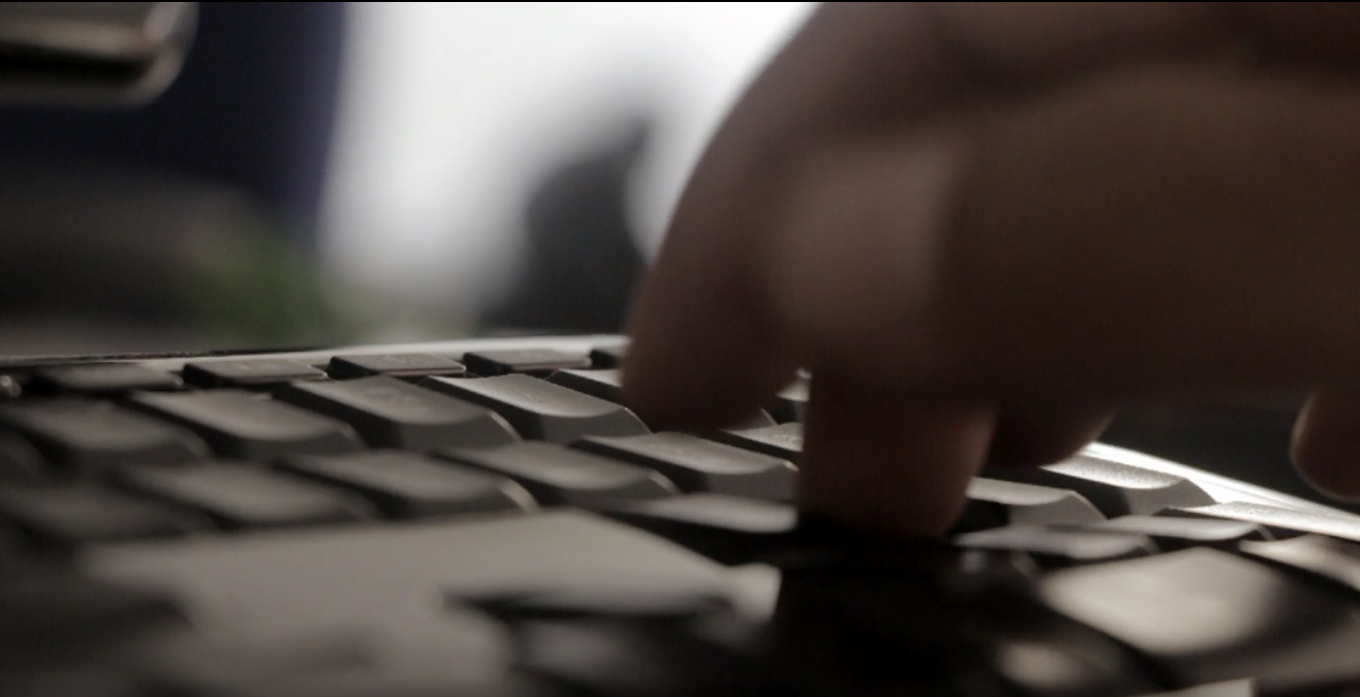
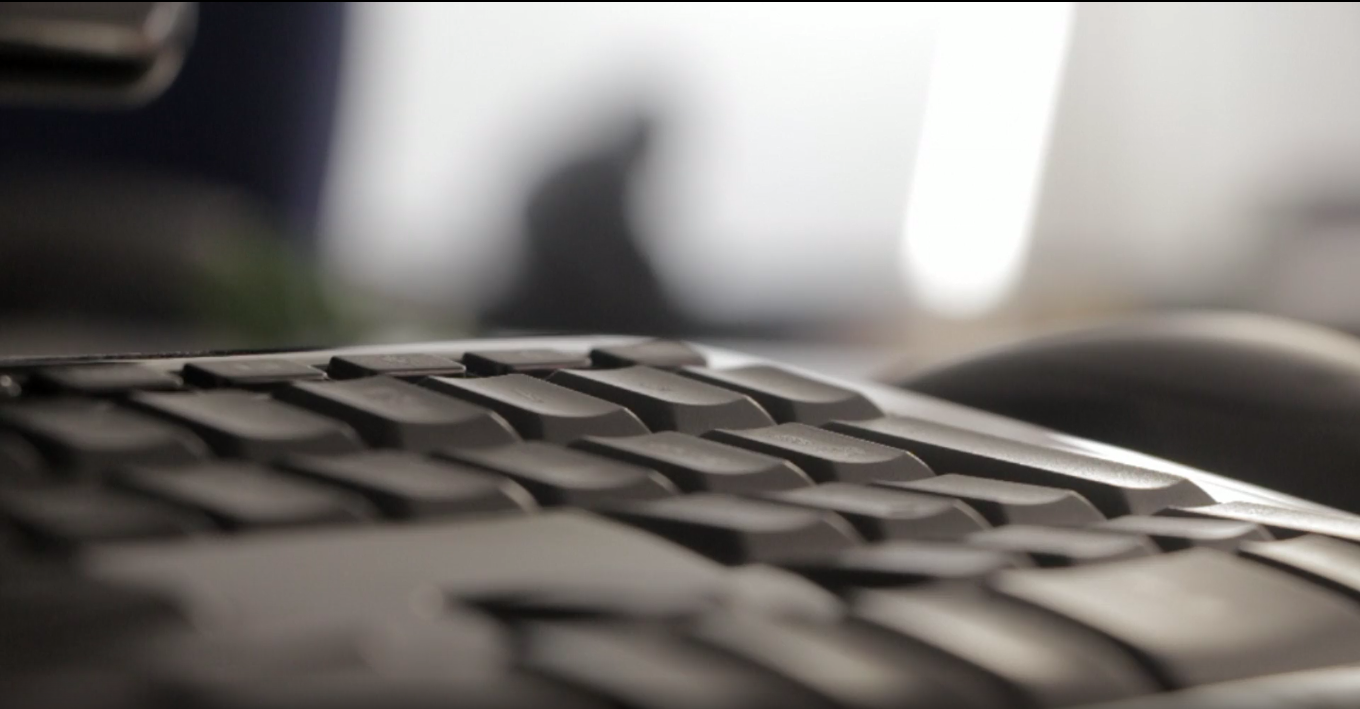
background image updated, heading position fixed for all devices

diff --git a/css/style.css b/css/style.css
@@ -290,8 +290,13 @@ img.blur {
 
 /*Banner */
 
+.banner_wr_2 {
+    position: absolute;
+    bottom: 100px;
+    width: 100%;
+}
+
 .banner_card {
-    margin-top: 186px;
     text-shadow: 1px 1px 1px rgba(0, 0, 0, 0.2);
 }
 
@@ -668,9 +673,16 @@ img.blur {
     }
 
     /*Banner*/
+
+    .banner_wr_2 {
+        position: absolute;
+        bottom: 40px;
+        width: 100%;
+    }
+
     section.banner_section {
         padding: 56px 0;
-        height: auto !important;
+        /*height: auto !important;*/
     }
 
     section.banner_section h1.main_heading {
@@ -691,14 +703,14 @@ img.blur {
     }
 
     section.banner_section .banner_card:before {
-        height: 182px;
+        height: 120px;
         left: 10px;
         bottom: 58px;
     }
 
-    section.banner_section p.f_36_40 {
+    section.banner_section .f_40_44 {
         font-size: 20px;
-        line-height: 26px;
+        line-height: 26px !important;
     }
 
     /*About Section*/
@@ -750,6 +762,18 @@ img.blur {
 /*Mobile Devices*/
 @media all and (max-width: 580px) {
 
+    section.banner_section {
+        height: 340px;
+    }
+
+    section.banner_section .banner_card:before {
+        height: 95px;
+    }
+
+    section.banner_section .f_40_44 {
+        font-size: 20px;
+        line-height: 22px !important;
+    }
 
     .section-features .card.w_300.right_before {
         float: left !important;

diff --git a/index.html b/index.html
@@ -72,15 +72,17 @@
  	<!-- Banner Section Start -->
  	<section data-parallax="scroll" data-image-src="images/banner_bg.png" class="banner_section p_y_100 position-relative vh_100"> 
  		<!-- <img src="https://picsum.photos/id/481/1300/600" class="position-absolute bg_image_full vh_100"> -->
- 		<div class="container">
-	 		<div class="row">
-	 			<div class="col-12">
-	 				<div class="banner_card text-white">
-	 					<h1 class="main_heading m_b_10 font-weight-bold">TaxShield Software</h1>
-		 				<p class="m_b_30 f_40_44"><span id="typed5"></span></p>
-		 				<a href="https://app.gettaxshield.com/#/register" class="btn btn-primary badge-pill text-uppercase f_12_14 font-weight-bold p_x_30 p_y_10">Try It Free</a>
-	 				</div>
-	 			</div>
+ 		<div class="banner_wr_2">
+	 		<div class="container">
+		 		<div class="row">
+		 			<div class="col-12">
+		 				<div class="banner_card text-white">
+		 					<h1 class="main_heading m_b_10 font-weight-bold">TaxShield Software</h1>
+			 				<p class="m_b_30 f_40_44"><span id="typed5"></span></p>
+			 				<a href="https://app.gettaxshield.com/#/register" class="btn btn-primary badge-pill text-uppercase f_12_14 font-weight-bold p_x_30 p_y_10">Try It Free</a>
+		 				</div>
+		 			</div>
+		 		</div>
 	 		</div>
  		</div>
  	</section>
